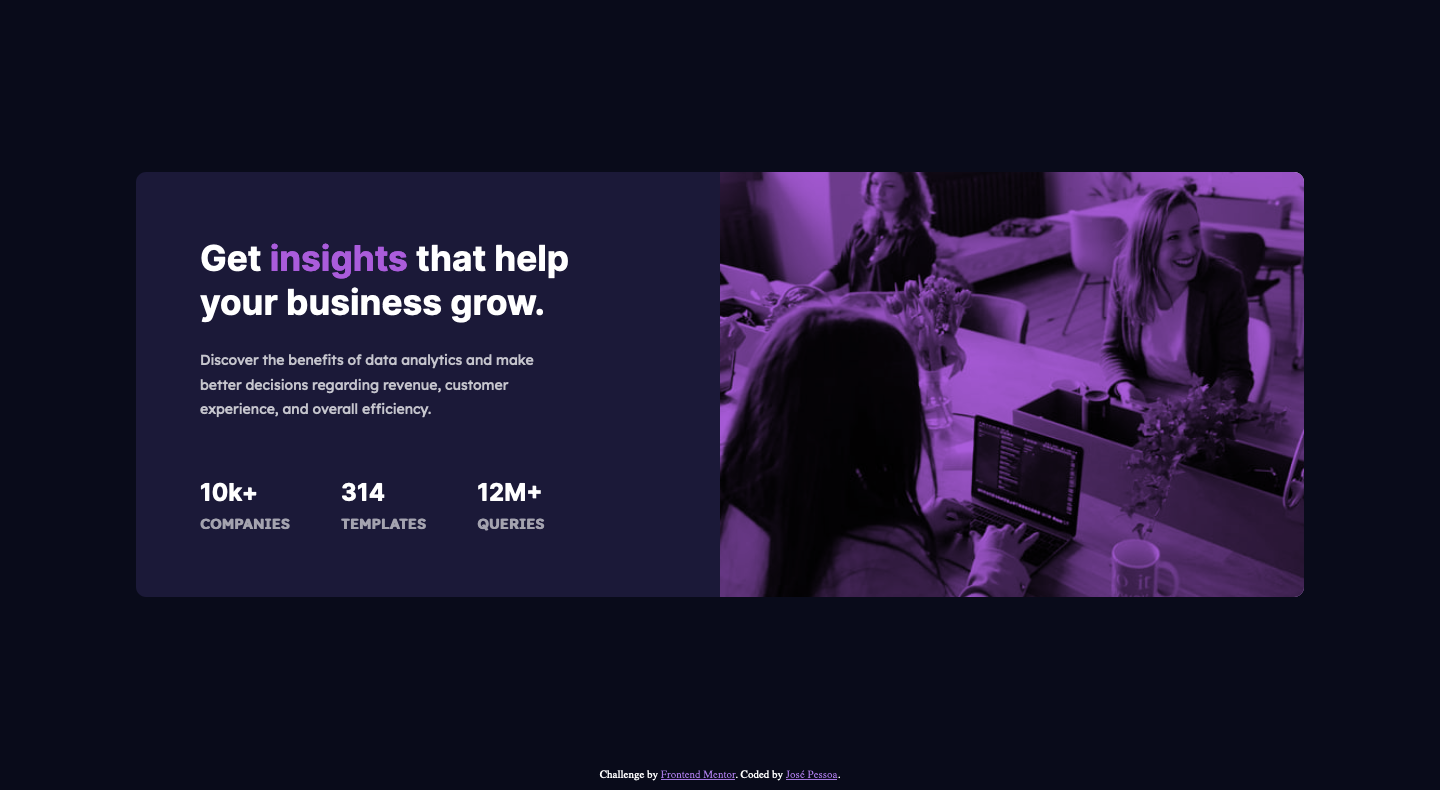
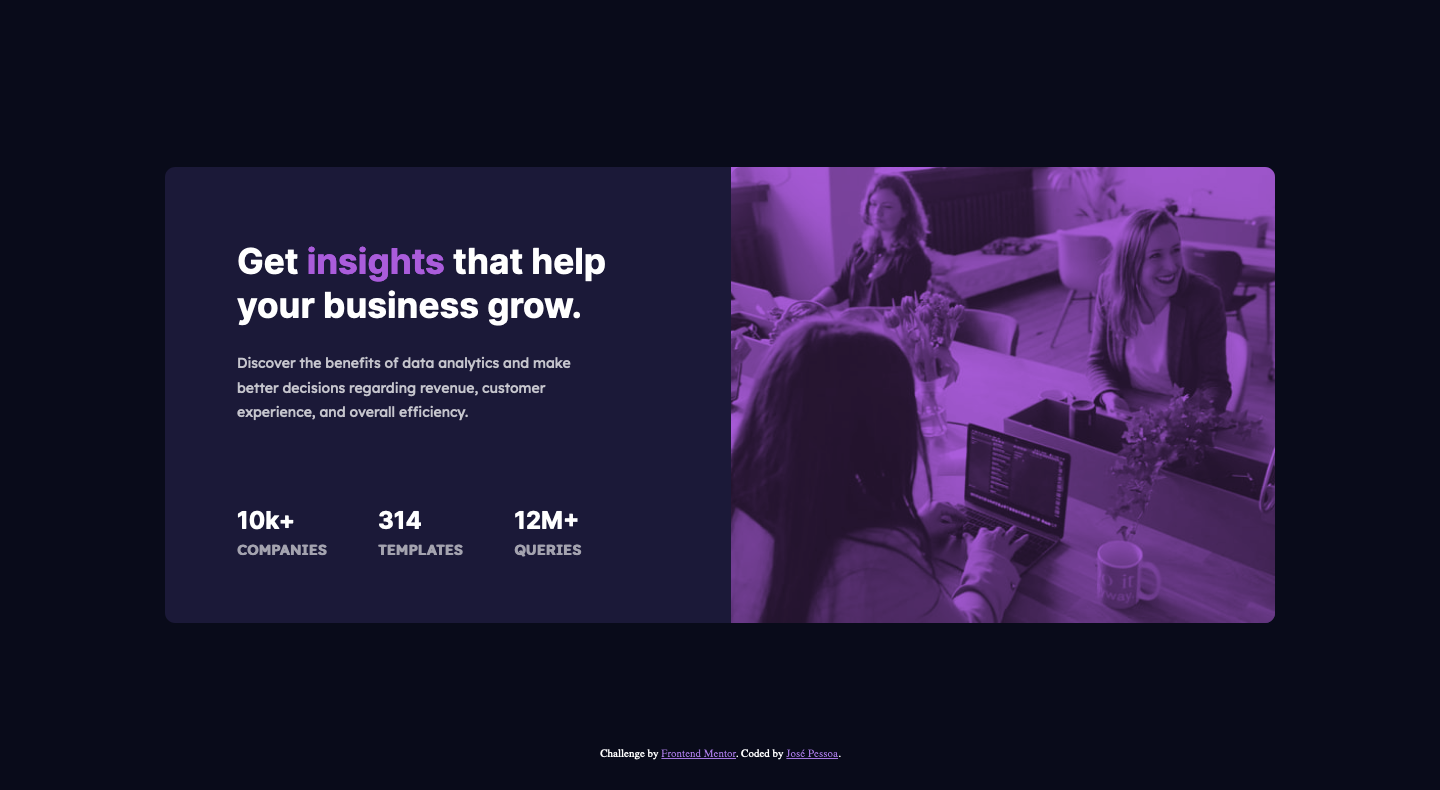
size and img gradient fix

Changed region(s): [[0.0938, 0.2127, 0.9062, 0.7899], [0.2188, 0.6076, 0.4062, 0.6987], [0.4062, 0.9418, 0.5938, 1.0]]

diff --git a/css/style.css b/css/style.css
@@ -22,34 +22,47 @@
 
 body {
   background: var(--main-bg);
+  position: relative;
 }
 
 main {
   display: flex;
   align-items: center;
   justify-content: center;
-  min-height: calc(100vh - 21px);
+  min-height: calc(100vh);
 }
 
 .card {
-  margin: 2rem;
+  margin: 3.5rem 1.5rem;
   background: var(--card-bg);
-  border-bottom-left-radius: 10px;
-  border-bottom-right-radius: 10px;
+  border-radius: 10px;
   max-width: 450px;
 }
 
 .card-img-container {
-  height: 14rem;
-  background: linear-gradient(var(--accent), var(--accent)),
-    url(../images/image-header-mobile.jpg) center/cover no-repeat;
-  background-blend-mode: multiply;
+  height: 15rem;
+  background: var(--accent);
   border-top-left-radius: 10px;
   border-top-right-radius: 10px;
+  position: relative;
+}
+
+.card-img-container::before {
+  content: "";
+  background: url(../images/image-header-mobile.jpg) center/cover no-repeat;
+  mix-blend-mode: multiply;
+  opacity: 0.8;
+  width: 100%;
+  height: 100%;
+  position: absolute;
+  top: 0;
+  left: 0;
+  border-top-right-radius: 10px;
+  border-top-left-radius: 10px;
 }
 
 .card-info {
-  padding: 2rem;
+  padding: 2.5rem;
 }
 
 .card-info h1 {
@@ -58,11 +71,15 @@ main {
   padding-bottom: 1rem;
   color: var(--main-h);
   line-height: 1.25;
-  font-size: 1.6rem;
+  font-size: 1.65rem;
 }
 
 .card-info span {
   color: var(--accent);
+}
+
+.stats {
+  padding-top: 0.5rem;
 }
 
 .card-info h1 + p {
@@ -78,7 +95,7 @@ main {
   text-align: center;
   font-family: var(--ff-primary);
   color: var(--main-h);
-  padding-top: 2rem;
+  padding-top: 1.5rem;
 }
 
 .card-info h2 span {
@@ -87,14 +104,14 @@ main {
   text-transform: uppercase;
   text-align: center;
   color: var(--stat-h);
-  padding-top: 0.5rem;
+  padding-top: 0.4rem;
   font-size: 0.875rem;
 }
 
 @media screen and (min-width: 900px) {
   .card {
-    margin: 2rem 0;
-    max-width: 1168px;
+    margin: 3rem 0;
+    max-width: 1110px;
     display: flex;
     flex-direction: row-reverse;
     flex: 0 0 calc(100% - 17rem);
@@ -104,16 +121,30 @@ main {
   .card-img-container {
     height: auto;
     width: 100%;
-    flex: 0 0 50%;
+    flex: 0 0 49%;
     border-top-right-radius: 10px;
     border-bottom-right-radius: 10px;
     border-top-left-radius: 0;
-    background: linear-gradient(var(--accent), var(--accent)),
-      url(../images/image-header-desktop.jpg) center/cover no-repeat;
+    background: var(--accent);
+    position: relative;
+  }
+
+  .card-img-container::before {
+    content: "";
+    background: url(../images/image-header-desktop.jpg) center/cover no-repeat;
+    mix-blend-mode: multiply;
+    opacity: 0.8;
+    width: 100%;
+    height: 100%;
+    position: absolute;
+    top: 0;
+    left: 0;
+    border-top-right-radius: 10px;
+    border-bottom-right-radius: 10px;
   }
 
   .card-info {
-    flex: 0 0 50%;
+    flex: 0 0 51%;
     padding: 2.5rem;
     border-top-left-radius: 10px;
     border-bottom-left-radius: 10px;
@@ -135,7 +166,7 @@ main {
   }
 
   .stats h2 {
-    padding-top: 3rem;
+    padding-top: 4rem;
     font-size: 1.25rem;
     padding-right: 5%;
   }
@@ -153,6 +184,8 @@ main {
 @media screen and (min-width: 1200px) {
   .card-info {
     padding: 4rem;
+    padding-top: 4.5rem;
+    padding-left: 4.5rem;
   }
 
   .card-info h1 {
@@ -167,7 +200,7 @@ main {
   .stats {
     display: flex;
     justify-content: space-between;
-    padding-right: 24.5%;
+    padding-right: 20%;
   }
 
   .stats h2 {

diff --git a/index.html b/index.html
@@ -29,7 +29,12 @@
         font-size: 11px;
         text-align: center;
         color: white;
-        margin-bottom: 0.5rem;
+        position: absolute;
+        bottom: 10px;
+        right: 50%;
+        transform: translate(50%);
+        padding-top: inherit;
+        height: 2rem;
       }
       .attribution a {
         color: hsl(266, 62%, 67%);
